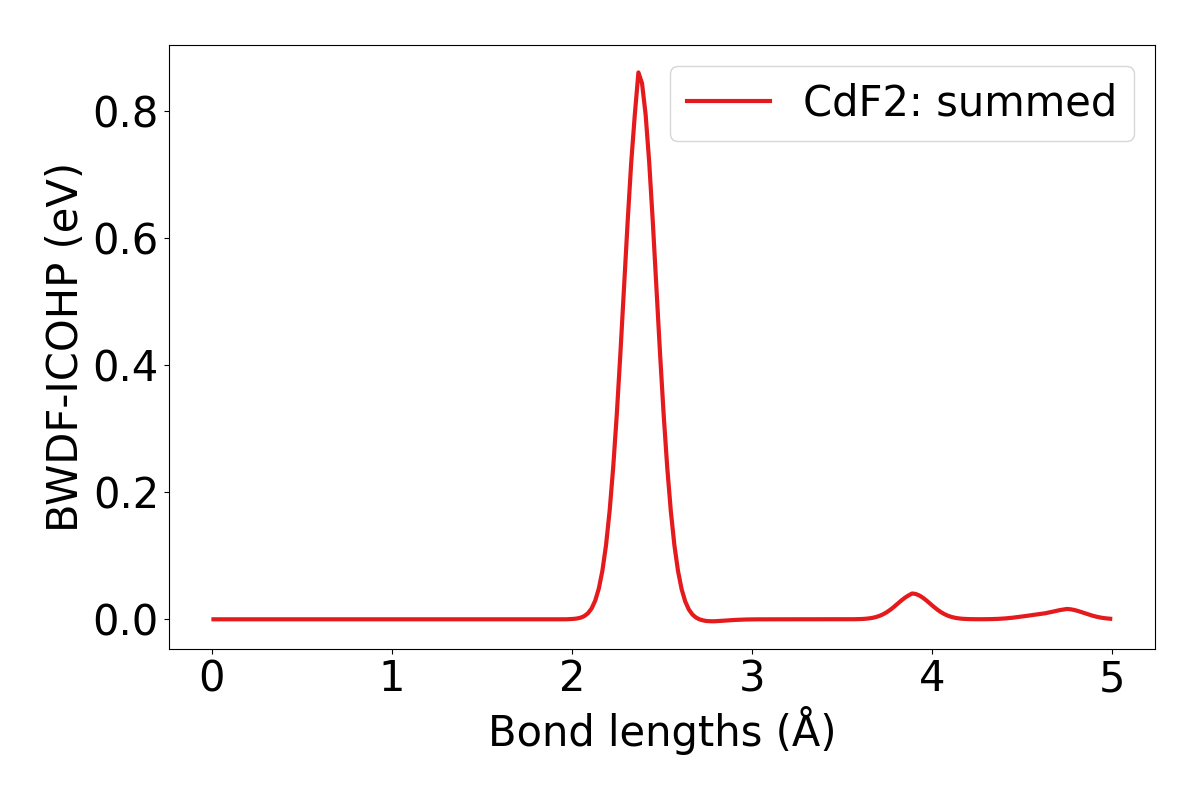
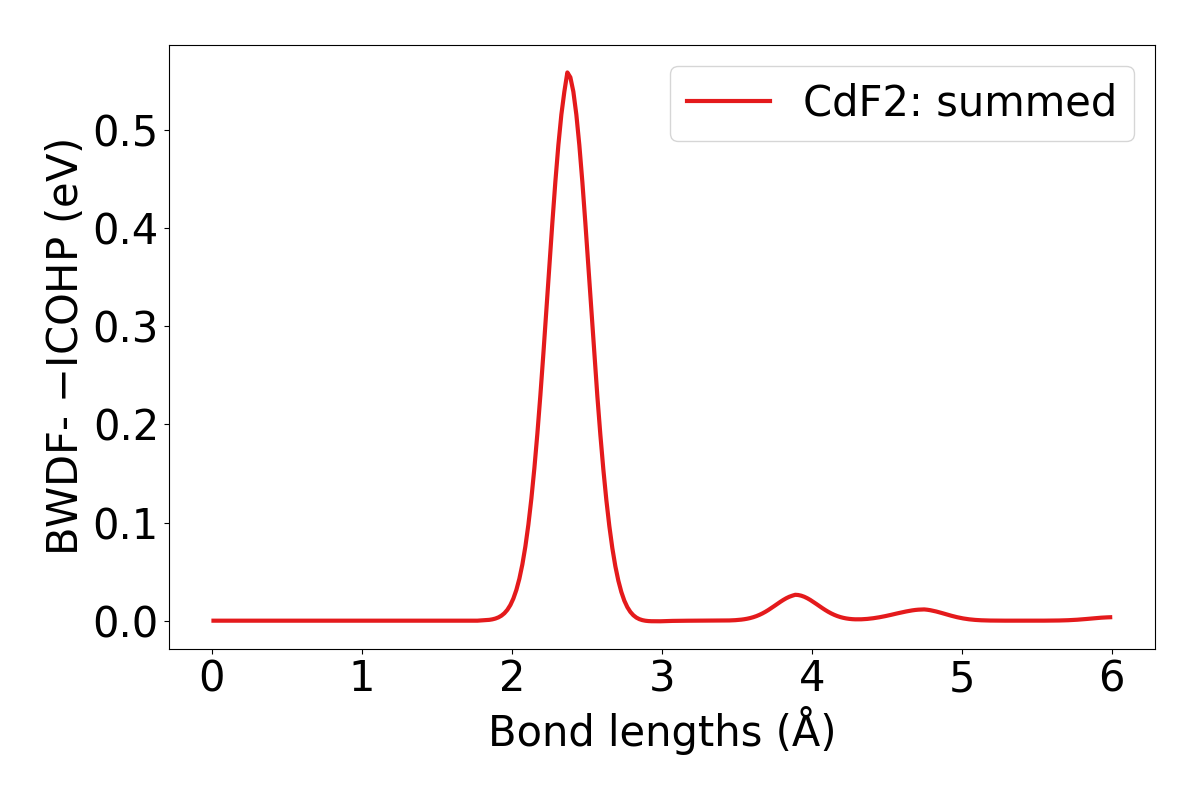
adapt cli docs and test

diff --git a/tests/plotting/test_plotting.py b/tests/plotting/test_plotting.py
@@ -761,7 +761,7 @@ class TestBWDFPlotter:
         fig = bwdf_plotter.get_plot().gca()
 
         assert fig.get_xlabel() == "Bond lengths (Å)"
-        assert fig.get_ylabel() == "BWDF-ICOHP (eV)"
+        assert fig.get_ylabel() == "BWDF- $-$ICOHP (eV)"
 
         bwdf_plotter = BWDFPlotter(are_coops=True)
         bwdf_plotter.add_bwdf(bwdf=bwdf_cdf_coop, label="CdF")

diff --git a/docs/tutorial/commandlineinterface.rst b/docs/tutorial/commandlineinterface.rst
@@ -274,7 +274,7 @@ You can plot COHPs/COBIs/COOPs from the command line.
 
 .. code:: bash
 
-    lobsterpy plot-bwdf
+    lobsterpy plot-bwdf --plot-negative --sigma 0.15
 
 .. image:: tutorial_assets/example_bwdf.png
 
